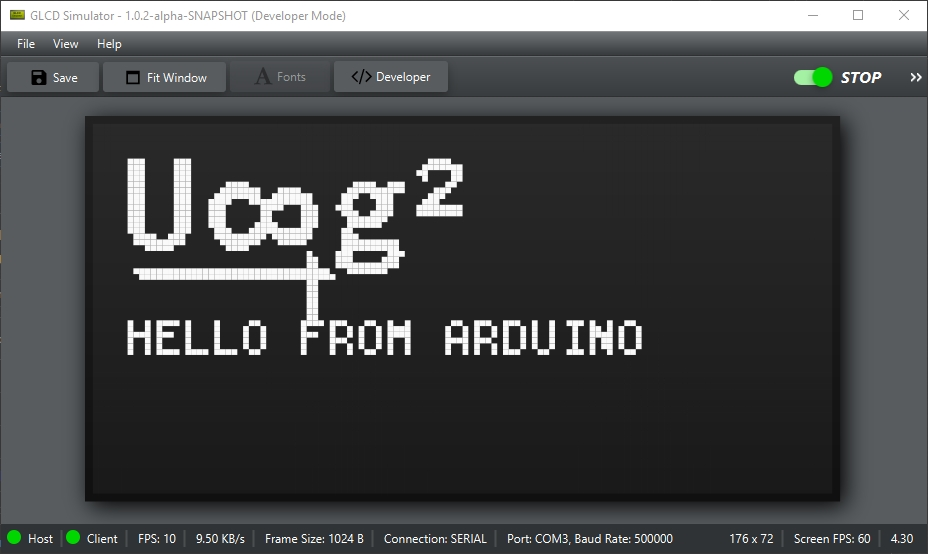
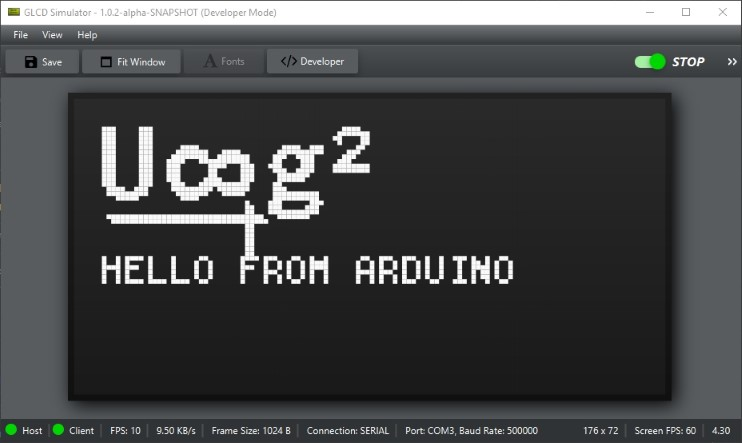
Resized screenshots and updated the README

diff --git a/README.md b/README.md
@@ -15,6 +15,16 @@ Graphics LCD prototyping tool for hobbyists
 
 ![ST7920](docs/images/main.jpg)
 
+## Overview
+
+The client can be configured to use either Serial or TCP/IP for data transmission.
+
+### Arduino
+
+The Arduino client extends from the [U8g2 class](https://github.com/olikraus/u8g2/blob/master/cppsrc/U8g2lib.h). It can then be used just like how it is used in any actual u8g2 development. Data is transmitted from the client to the simulator program (via Serial or TCP/IP)
+
+![Workflow](docs/images/workflow.png)
+
 ## Requirements
 
 - Java 8 or higher
@@ -36,7 +46,9 @@ Graphics LCD prototyping tool for hobbyists
 
 Extract the archive `glcd-emulator-<version>-amd64.zip` or `glcd-emulator-<version>-amd64.tar.gz` to any directory and use the run script to start the application
 
-### Installers
+### Installer
+
+Execute any of the files below whatever matches your target operating system.
 
 - Windows: `glcd-emulator-setup-amd64.exe`
 - Linux (Debian): `glcd-emulator-<version>-amd64.deb`
@@ -48,7 +60,7 @@ Extract the archive `glcd-emulator-<version>-amd64.zip` or `glcd-emulator-<versi
 
 Supports Windows, Mac OSX and Linux
 
-### Supports Arduino/c/c++ and Java clients
+### Client available for Arduino/C/C++ and Java clients
 
 See [Client Libraries](#Client-libraries)
 
@@ -63,6 +75,8 @@ Browse through all available u8g2 fonts
 ![Font Browser](docs/images/main03.jpg)
 
 ### Supports over 40+ displays
+
+Most displays are available and supported by the simulator, but some limitations may apply depending on the hardware used.
 
 ![Supports over 40+ displays](docs/images/main04.jpg)
 
